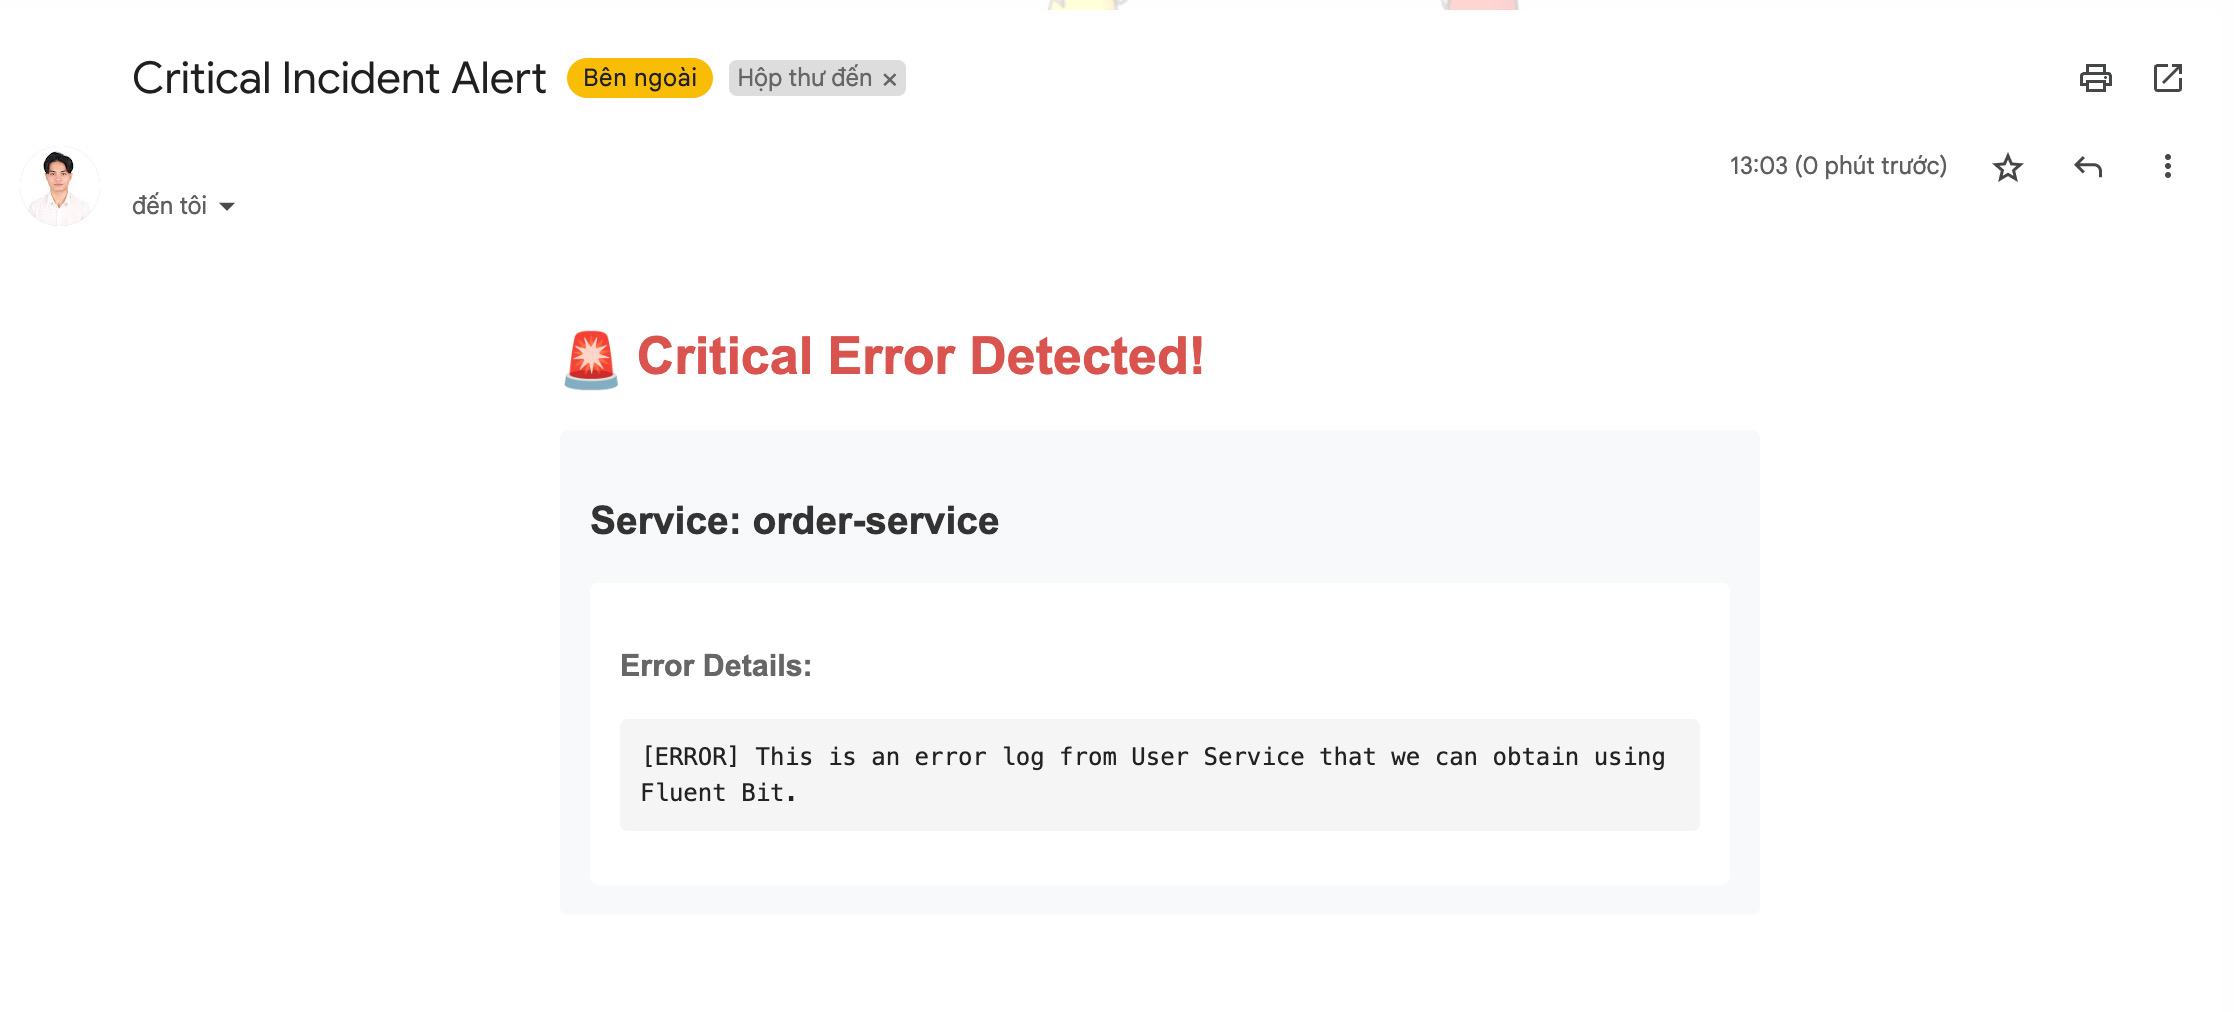
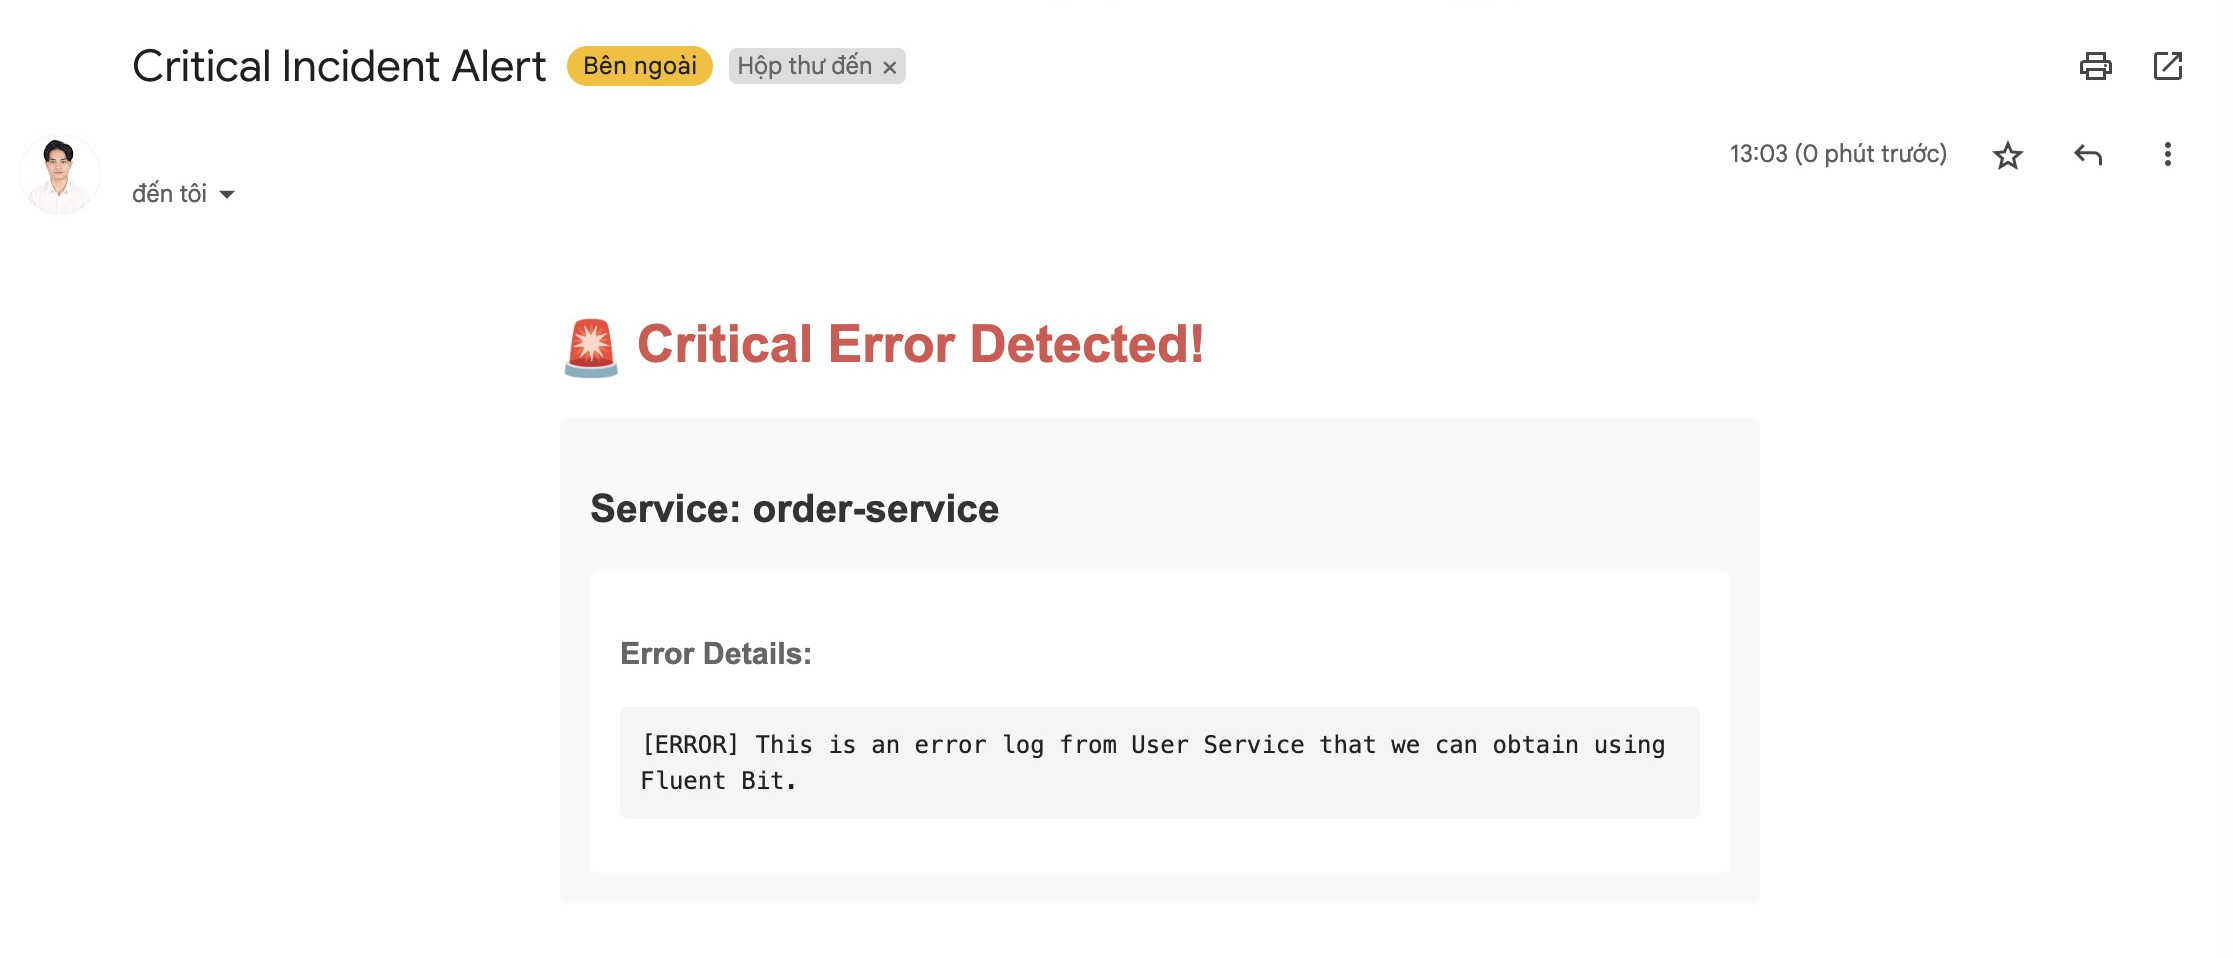
feat: update screen result for email support

diff --git a/README.md b/README.md
@@ -332,6 +332,11 @@ curl -X POST http://localhost:3000/api/incidents \
 
 ![Telegram Alert](src/docs/images/telegram_alert.png)
 
+***Email***
+
+![Email Alert](src/docs/images/email_alert.png)
+
+
 ## Roadmap
 
 - [x] Add Telegram support
